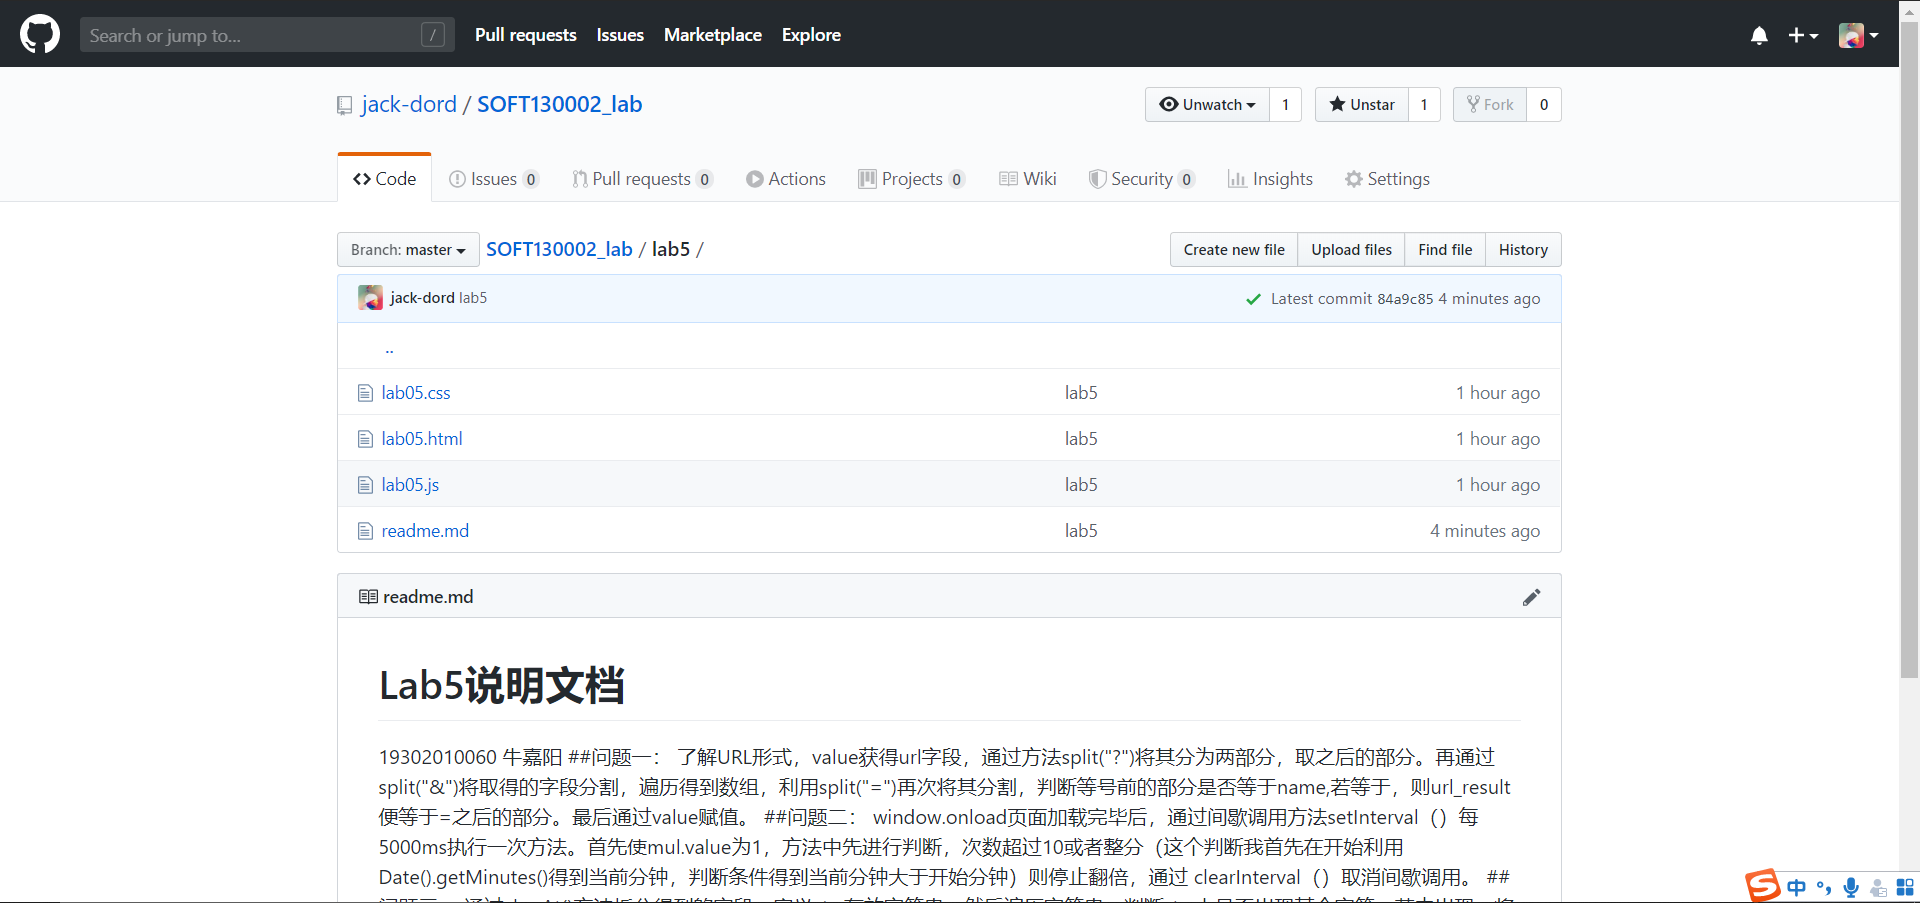
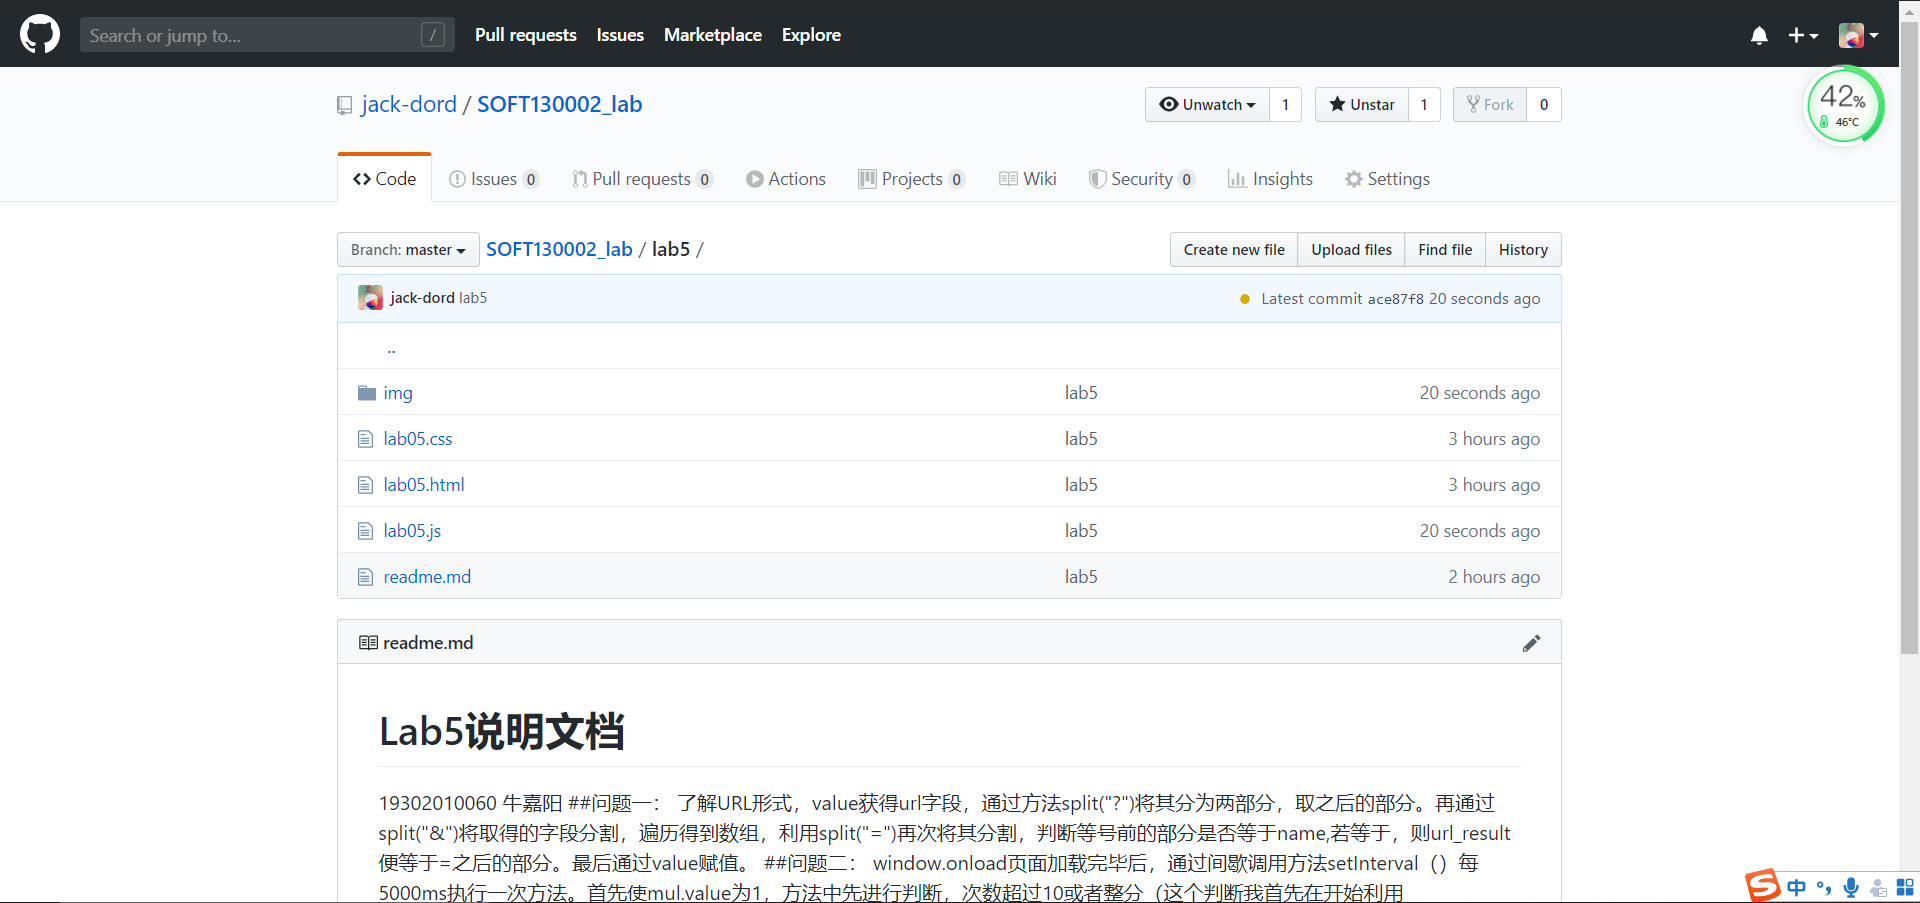
lab5

diff --git a/lab5/readme.md b/lab5/readme.md
@@ -7,4 +7,6 @@
  ##问题三：
    通过charAt()方法拆分得到的字段，定义strs存放字符串，然后遍历字符串。判断strs中是否出现某个字符，若未出现，将其赋值为1，反之++。通过for(...in)遍历strs，通过判断得到出现次数最多的字符，以及其出现次数。
            
-   
+  ![](img/1.png)
+  ===
+  ![](img/2.png)  
